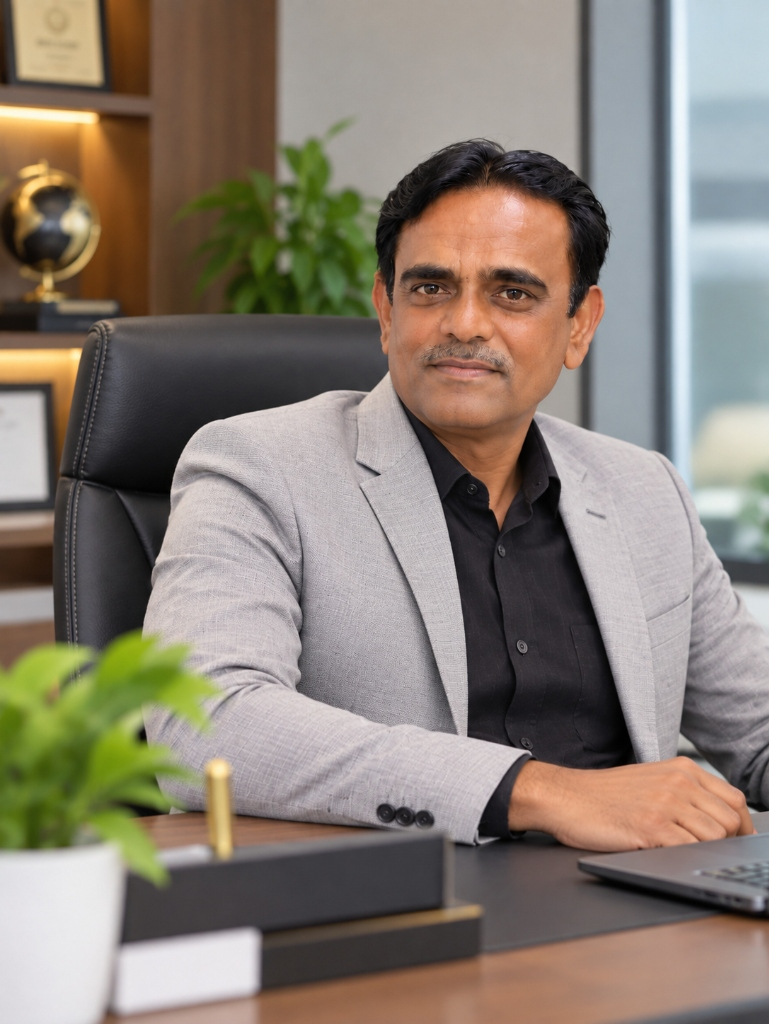
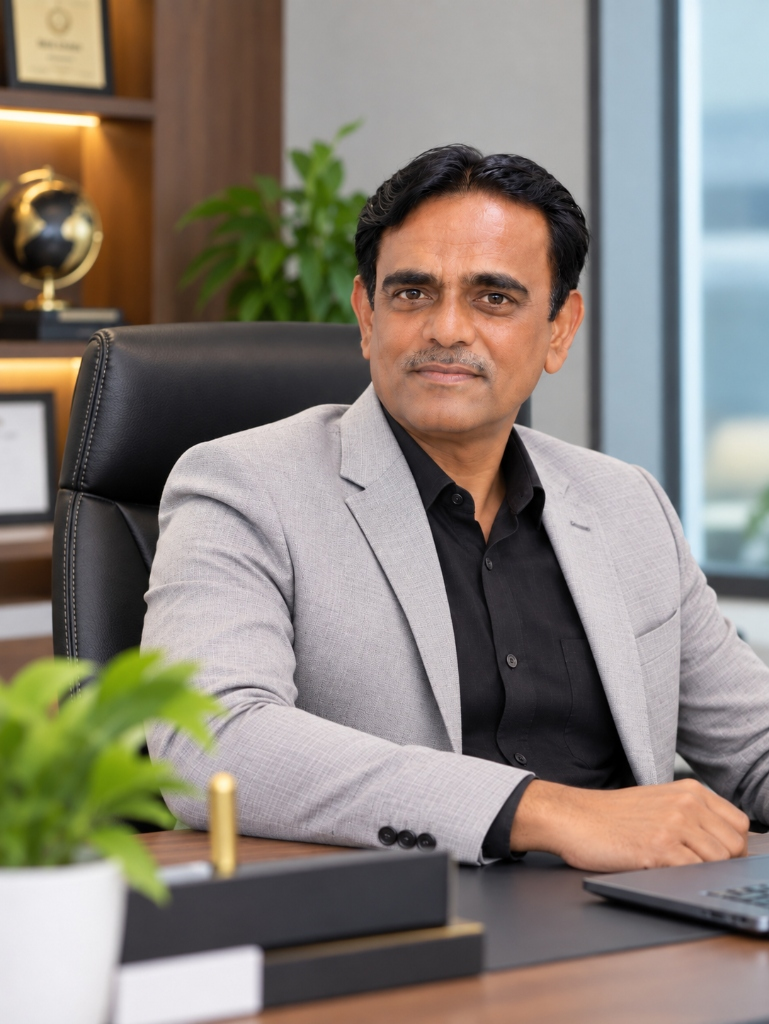
Update Mr. B.S. Chouhan executive portrait photo

diff --git a/management.html b/management.html
@@ -12,7 +12,7 @@
 <meta http-equiv="Cache-Control" content="no-cache, no-store, must-revalidate">
 <meta http-equiv="Pragma" content="no-cache">
 <meta http-equiv="Expires" content="0">
-<link rel="stylesheet" href="styles.css?v=112">
+<link rel="stylesheet" href="styles.css?v=113">
 </head>
 <body>
 
@@ -151,7 +151,7 @@
 
     <div class="team-arch-card">
      <div class="team-photo-frame" tabindex="0">
-      <img src="images/team-bs-chouhan.jpg?v=6" alt="Mr. B.S. Chouhan" class="team-photo-img" onerror="this.classList.add('is-hidden')">
+      <img src="images/team-bs-chouhan.jpg?v=7" alt="Mr. B.S. Chouhan" class="team-photo-img" onerror="this.classList.add('is-hidden')">
       <div class="team-photo-placeholder" aria-hidden="true">
        <span class="avatar-badge-arch">BC</span>
       </div>
@@ -440,7 +440,7 @@
  </div>
 </footer>
 
-<script src="main.js?v=112"></script>
+<script src="main.js?v=113"></script>
 <!-- FLOATING WHATSAPP CHAT BUTTON (+91 97275 64411) -->
 <a href="https://wa.me/919727564411" target="_blank" rel="noopener noreferrer" class="whatsapp-float-btn" aria-label="Chat with Sahjanand on WhatsApp (+91 97275 64411)" title="Chat on WhatsApp (+91 97275 64411)">
  <span class="wa-pulse" aria-hidden="true"></span>

diff --git a/contact.html b/contact.html
@@ -12,7 +12,7 @@
 <meta http-equiv="Cache-Control" content="no-cache, no-store, must-revalidate">
 <meta http-equiv="Pragma" content="no-cache">
 <meta http-equiv="Expires" content="0">
-<link rel="stylesheet" href="styles.css?v=112">
+<link rel="stylesheet" href="styles.css?v=113">
 </head>
 <body>
 
@@ -375,7 +375,7 @@
  </div>
 </footer>
 
-<script src="main.js?v=112"></script>
+<script src="main.js?v=113"></script>
 <!-- FLOATING WHATSAPP CHAT BUTTON (+91 97275 64411) -->
 <a href="https://wa.me/919727564411" target="_blank" rel="noopener noreferrer" class="whatsapp-float-btn" aria-label="Chat with Sahjanand on WhatsApp (+91 97275 64411)" title="Chat on WhatsApp (+91 97275 64411)">
  <span class="wa-pulse" aria-hidden="true"></span>

diff --git a/infrastructure.html b/infrastructure.html
@@ -12,7 +12,7 @@
 <meta http-equiv="Cache-Control" content="no-cache, no-store, must-revalidate">
 <meta http-equiv="Pragma" content="no-cache">
 <meta http-equiv="Expires" content="0">
-<link rel="stylesheet" href="styles.css?v=112">
+<link rel="stylesheet" href="styles.css?v=113">
 </head>
 <body>
 
@@ -325,7 +325,7 @@
  </div>
 </footer>
 
-<script src="main.js?v=112"></script>
+<script src="main.js?v=113"></script>
 <!-- FLOATING WHATSAPP CHAT BUTTON (+91 97275 64411) -->
 <a href="https://wa.me/919727564411" target="_blank" rel="noopener noreferrer" class="whatsapp-float-btn" aria-label="Chat with Sahjanand on WhatsApp (+91 97275 64411)" title="Chat on WhatsApp (+91 97275 64411)">
  <span class="wa-pulse" aria-hidden="true"></span>

diff --git a/milestones.html b/milestones.html
@@ -12,7 +12,7 @@
 <meta http-equiv="Cache-Control" content="no-cache, no-store, must-revalidate">
 <meta http-equiv="Pragma" content="no-cache">
 <meta http-equiv="Expires" content="0">
-<link rel="stylesheet" href="styles.css?v=112">
+<link rel="stylesheet" href="styles.css?v=113">
 </head>
 <body>
 
@@ -671,7 +671,7 @@
  </div>
 </footer>
 
-<script src="main.js?v=112"></script>
+<script src="main.js?v=113"></script>
 <!-- FLOATING WHATSAPP CHAT BUTTON (+91 97275 64411) -->
 <a href="https://wa.me/919727564411" target="_blank" rel="noopener noreferrer" class="whatsapp-float-btn" aria-label="Chat with Sahjanand on WhatsApp (+91 97275 64411)" title="Chat on WhatsApp (+91 97275 64411)">
  <span class="wa-pulse" aria-hidden="true"></span>

diff --git a/products.html b/products.html
@@ -12,7 +12,7 @@
 <meta http-equiv="Cache-Control" content="no-cache, no-store, must-revalidate">
 <meta http-equiv="Pragma" content="no-cache">
 <meta http-equiv="Expires" content="0">
-<link rel="stylesheet" href="styles.css?v=112">
+<link rel="stylesheet" href="styles.css?v=113">
 </head>
 <body>
 
@@ -804,7 +804,7 @@
  </div>
 </footer>
 
-<script src="main.js?v=112"></script>
+<script src="main.js?v=113"></script>
 <!-- FLOATING WHATSAPP CHAT BUTTON (+91 97275 64411) -->
 <a href="https://wa.me/919727564411" target="_blank" rel="noopener noreferrer" class="whatsapp-float-btn" aria-label="Chat with Sahjanand on WhatsApp (+91 97275 64411)" title="Chat on WhatsApp (+91 97275 64411)">
  <span class="wa-pulse" aria-hidden="true"></span>

diff --git a/index.html b/index.html
@@ -12,7 +12,7 @@
 <meta http-equiv="Cache-Control" content="no-cache, no-store, must-revalidate">
 <meta http-equiv="Pragma" content="no-cache">
 <meta http-equiv="Expires" content="0">
-<link rel="stylesheet" href="styles.css?v=112">
+<link rel="stylesheet" href="styles.css?v=113">
 </head>
 <body>
 
@@ -1266,7 +1266,7 @@
  </div>
 </div>
 
-<script src="main.js?v=112"></script>
+<script src="main.js?v=113"></script>
 <!-- FLOATING WHATSAPP CHAT BUTTON (+91 97275 64411) -->
 <a href="https://wa.me/919727564411" target="_blank" rel="noopener noreferrer" class="whatsapp-float-btn" aria-label="Chat with Sahjanand on WhatsApp (+91 97275 64411)" title="Chat on WhatsApp (+91 97275 64411)">
  <span class="wa-pulse" aria-hidden="true"></span>

diff --git a/investors.html b/investors.html
@@ -13,7 +13,7 @@
 <meta http-equiv="Pragma" content="no-cache">
 <meta http-equiv="refresh" content="0; url=./">
 <script>window.location.replace('./');</script>
-<link rel="stylesheet" href="styles.css?v=112">
+<link rel="stylesheet" href="styles.css?v=113">
 </head>
 <body>
 
@@ -298,7 +298,7 @@
  </div>
 </footer>
 
-<script src="main.js?v=112"></script>
+<script src="main.js?v=113"></script>
 <!-- FLOATING WHATSAPP CHAT BUTTON (+91 97275 64411) -->
 <a href="https://wa.me/919727564411" target="_blank" rel="noopener noreferrer" class="whatsapp-float-btn" aria-label="Chat with Sahjanand on WhatsApp (+91 97275 64411)" title="Chat on WhatsApp (+91 97275 64411)">
  <span class="wa-pulse" aria-hidden="true"></span>
